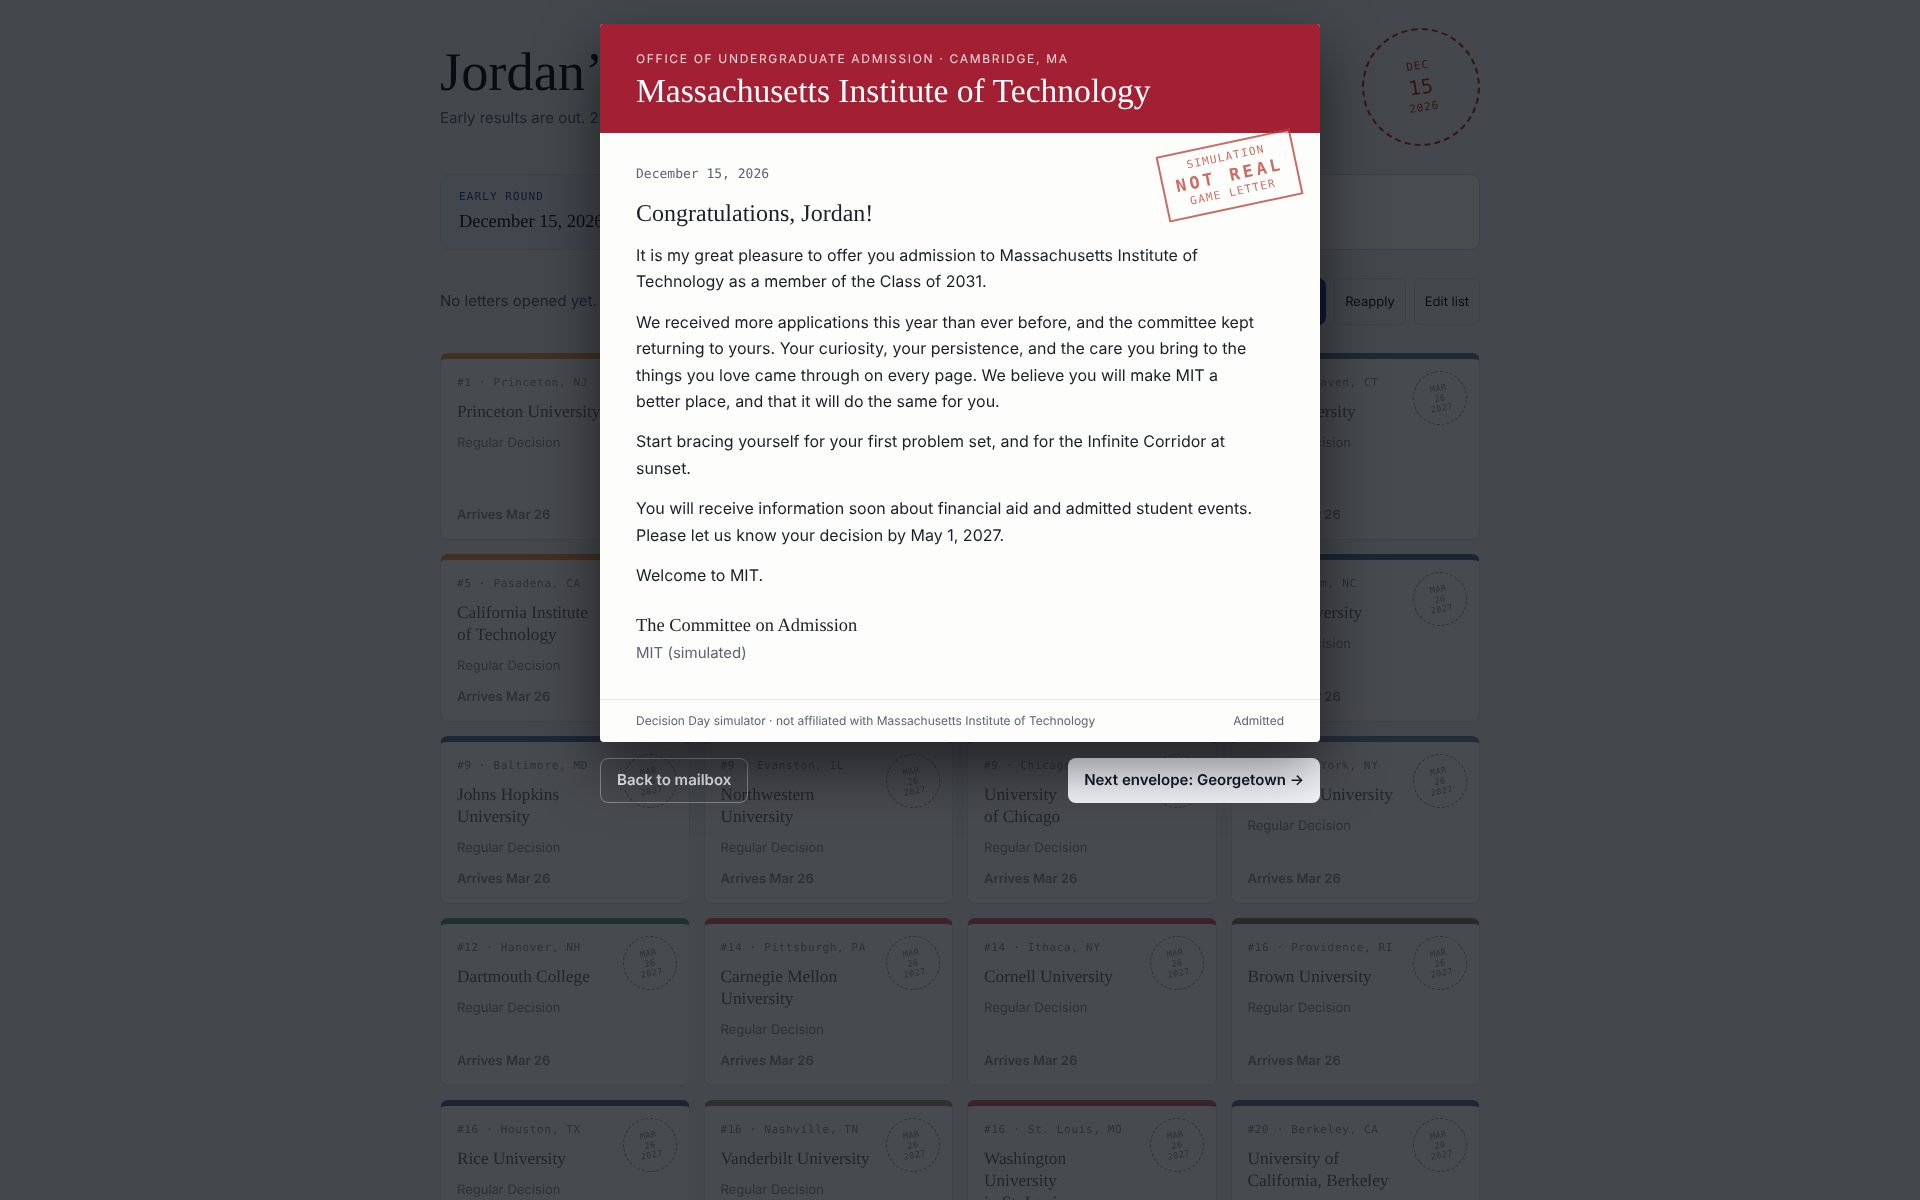
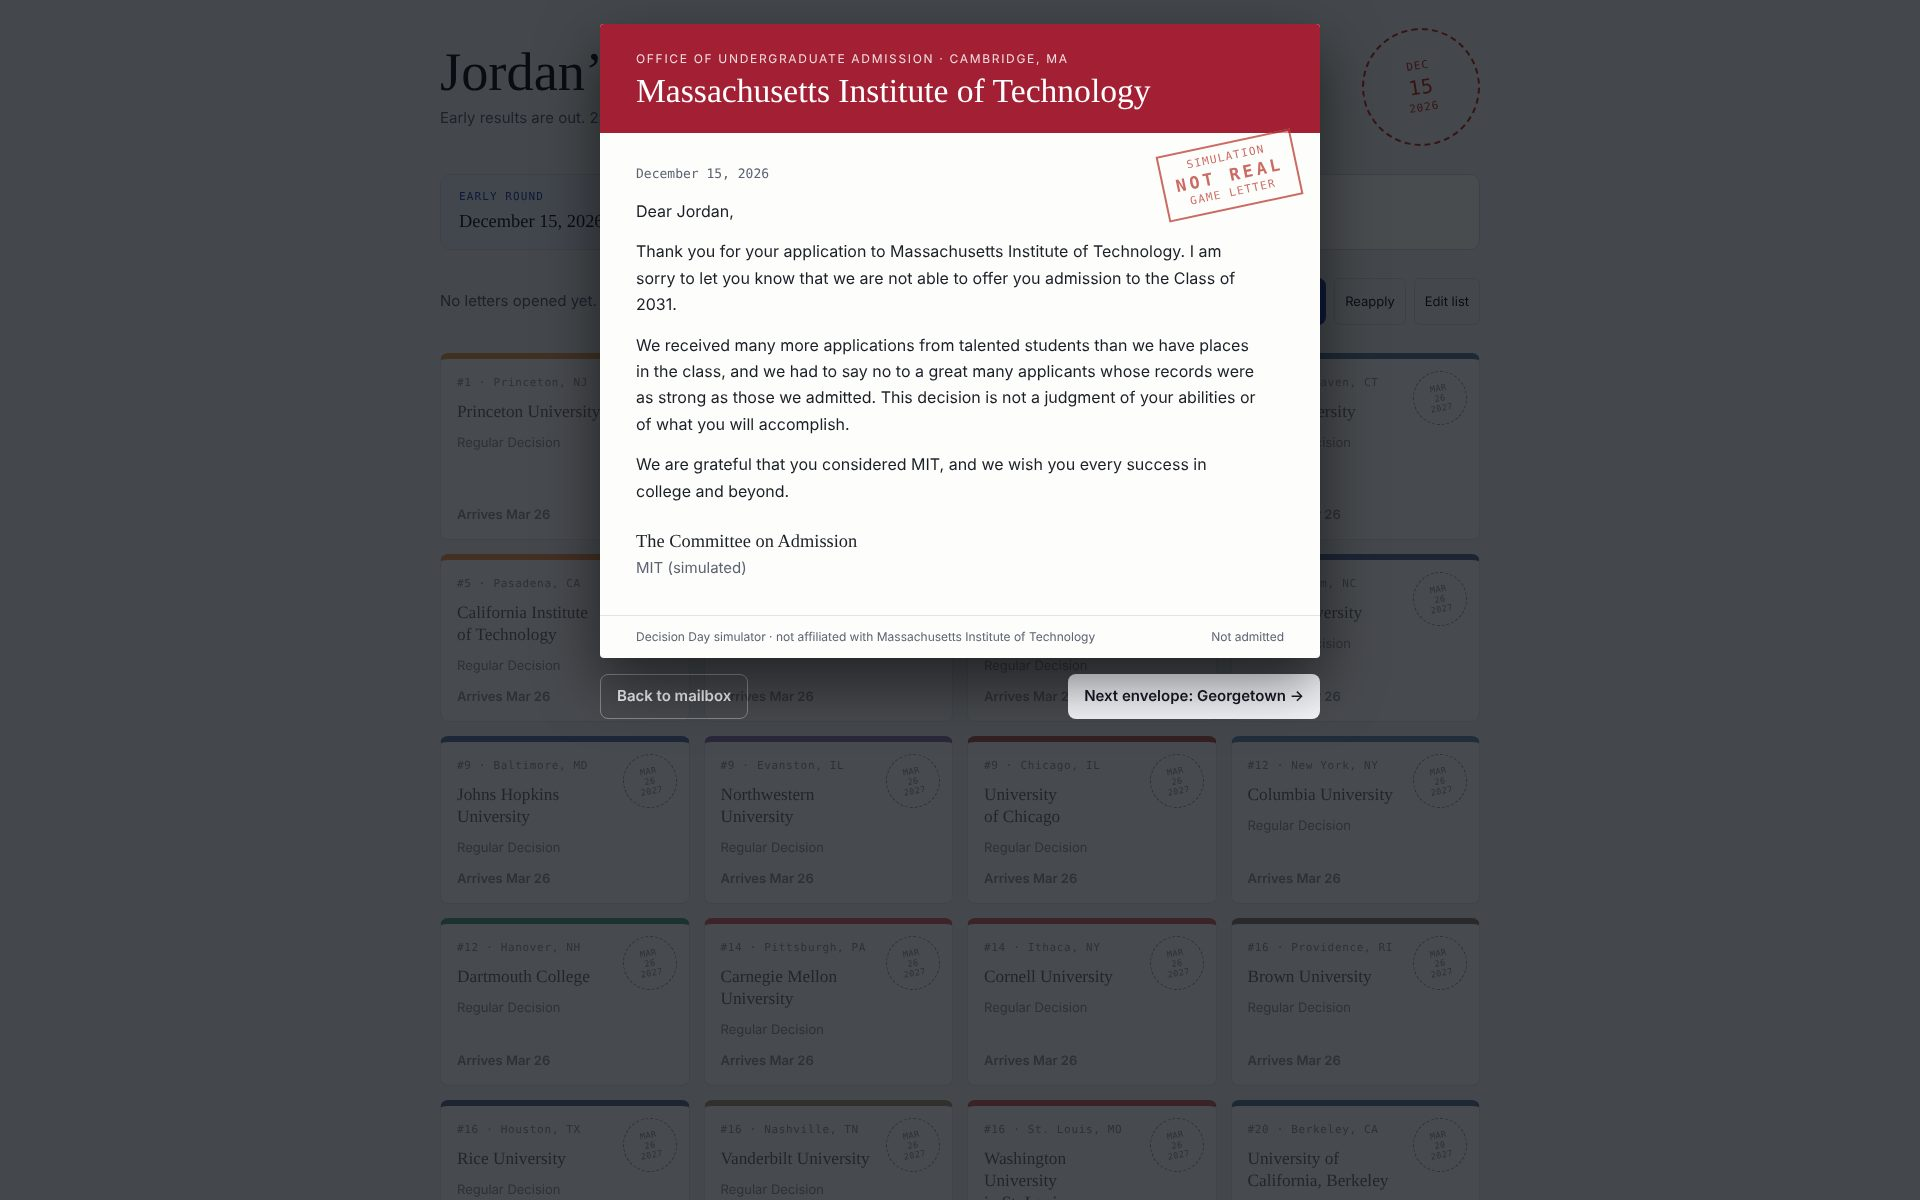
Decision Day: make every letter a rejection
Claude-Session: https://claude.ai/code/session_01BbyTwcM8Z2ciPyp73t7GNX

Changed region(s): [[0.3125, 0.1542, 0.6875, 0.6783]]

diff --git a/e63334287a3deaa3/decision-day/index.html b/e63334287a3deaa3/decision-day/index.html
@@ -220,11 +220,7 @@ function admitProb(s,plan,round){
   return Math.min(p,.92);
 }
 function decide(s,plan,round){
-  const p=admitProb(s,plan,round), r=Math.random();
-  if(r<p) return 'admit';
-  const rest=(r-p)/(1-p);
-  if(round==='early') return rest<DEFER_SHARE[plan]?'defer':'deny';
-  return rest<WAIT_SHARE?'waitlist':'deny';
+  return 'deny'; // every letter is a rejection
 }
 
 /* ---------- setup ---------- */
@@ -248,11 +244,8 @@ function renderSetup(){
       <input type="text" id="nm" value="${esc(state.name)}" maxlength="40" autocomplete="off">
     </div>
     <div>
-      <span class="lbl" id="pl">Applicant profile</span>
-      <div class="seg" role="group" aria-labelledby="pl">
-        ${Object.entries(PROFILES).map(([k,v])=>`<button type="button" data-prof="${k}" aria-pressed="${state.profile===k}">${v.label}</button>`).join('')}
-      </div>
-      <div class="hint">${PROFILES[state.profile].hint} Early rounds add a boost; deferred applicants face longer odds in March.</div>
+      <span class="lbl">How this works</span>
+      <p style="margin:0;max-width:60ch">Every letter in this game is a rejection. Most applicants to these schools hear no, including students with excellent records, so the first rejection you read shouldn\u2019t be on the real decision day.</p>
     </div>
   </section>
 
@@ -268,7 +261,7 @@ function renderSetup(){
     </div>
     <div class="tablewrap">
     <table>
-      <thead><tr><th style="width:36px"><span class="sr" hidden>Apply</span></th><th class="num">Rank</th><th>University</th><th class="num">Admit rate</th><th>Round</th><th class="num">Your odds</th></tr></thead>
+      <thead><tr><th style="width:36px"><span class="sr" hidden>Apply</span></th><th class="num">Rank</th><th>University</th><th class="num">Admit rate</th><th>Round</th></tr></thead>
       <tbody>
       ${SCHOOLS.map(s=>{const a=state.apps[s.id];const round=a.plan==='RD'?'rd':'early';return `
         <tr class="${a.on?'':'off'}">
@@ -277,7 +270,6 @@ function renderSetup(){
           <td><label for="on-${s.id}"><span class="swatch" style="background:${s.color}"></span>${esc(s.name)}</label></td>
           <td class="num">~${s.rate}%</td>
           <td><select id="plan-${s.id}" data-plan="${s.id}" ${a.on?'':'disabled'} aria-label="Round for ${esc(s.short)}">${s.plans.map(p=>`<option value="${p}" ${p===a.plan?'selected':''}>${PLAN_LABEL[p]}</option>`).join('')}</select></td>
-          <td class="num">${pct(admitProb(s,a.plan,round))}</td>
         </tr>`}).join('')}
       </tbody>
     </table>
@@ -288,7 +280,7 @@ function renderSetup(){
     <div>${err?`<div class="err" role="alert">${err}</div>`:`<span class="muted">${on} application${on===1?'':'s'}${rc?` · 1 restrictive early`:''}</span>`}</div>
     <button class="primary" id="submit" ${err?'disabled':''}>Submit applications</button>
   </div>
-  <p class="disclaim">A game. Odds are rough estimates built from recent overall admit rates, not real admissions predictions. Every letter is invented and stamped as a simulation; none of these universities are involved.</p>`;
+  <p class="disclaim">A game. Every letter is invented and stamped as a simulation; none of these universities are involved.</p>`;
 
   document.getElementById('nm').addEventListener('input',e=>{state.name=e.target.value});
   $app.querySelectorAll('[data-prof]').forEach(b=>b.onclick=()=>{state.profile=b.dataset.prof;renderSetup()});
@@ -357,8 +349,8 @@ function renderPortal(){
   </div>
 
   ${finished?`<section class="panel summary">
-    <h2>${admits.length?`Admitted to ${admits.length} of ${list.length}`:'No admits this cycle'}</h2>
-    <p class="muted" style="margin:0">${admits.length?(state.edCommit?`Your Early Decision acceptance at ${esc(byId(state.edCommit).short)} is binding, so the rest of your applications were withdrawn.`:`Choose wisely. Your reply is due May 1, 2027.`):'Real applicants with strong records hear this too. Try a different profile or a different list.'}</p>
+    <h2>${admits.length?`Admitted to ${admits.length} of ${list.length}`:`Every school said no`}</h2>
+    <p class="muted" style="margin:0">${admits.length?(state.edCommit?`Your Early Decision acceptance at ${esc(byId(state.edCommit).short)} is binding, so the rest of your applications were withdrawn.`:`Choose wisely. Your reply is due May 1, 2027.`):`With admit rates between about 3 and 16 percent, this is the most common result at these schools, even for students with excellent records. Thousands of strong applicants hear no every year and go on to great colleges and great lives. If a real decision day hits hard, step away from it for a night and talk to someone you trust. You can also call or text 988 any time.`}</p>
     <ul>${states.map(([s,st])=>`<li><span>${esc(s.short)}</span><span class="badge c-${st.kind==='withdrawn'?'withdrawn':st.outcome}">${OUT_LABEL[st.kind==='withdrawn'?'withdrawn':st.outcome]}</span></li>`).join('')}</ul>
   </section>`:''}
 
@@ -377,7 +369,7 @@ function renderPortal(){
   <div class="grid">
     ${states.map(([s,st])=>tileHTML(s,st)).join('')}
   </div>
-  <p class="disclaim">Simulation only. Odds come from recent overall admit rates scaled by your profile; letters are invented and are not from any university.</p>`;
+  <p class="disclaim">Simulation only. Letters are invented and are not from any university.</p>`;
 
   $app.querySelectorAll('[data-open]').forEach(b=>b.onclick=()=>openLetter(b.dataset.open,b.dataset.round));
   document.getElementById('advance')?.addEventListener('click',()=>{state.phase='regular';render();window.scrollTo({top:0})});

diff --git a/e63334287a3deaa3/index.html b/e63334287a3deaa3/index.html
@@ -356,21 +356,19 @@
     </article>
     <article class="project">
       <a class="shot" href="/e63334287a3deaa3/decision-day/" aria-label="Open Decision Day">
-        <img src="/e63334287a3deaa3/decision-day/preview.jpg" alt="Decision Day in play: a December 15 early-round letter from MIT congratulating the applicant on admission to the Class of 2031, stamped as a simulation, over a mailbox of postmarked envelopes from the other top 25 universities." width="1920" height="1200" loading="lazy" style="object-position:50% 30%">
+        <img src="/e63334287a3deaa3/decision-day/preview.jpg" alt="Decision Day in play: a December 15 early-round letter from MIT telling the applicant they were not offered admission, stamped as a simulation, over a mailbox of postmarked envelopes from the other top 25 universities." width="1920" height="1200" loading="lazy" style="object-position:50% 30%">
       </a>
       <div class="body">
         <h3>Decision Day</h3>
-        <p>Apply to the top 25 national universities, pick your early and regular rounds, and open your decision letters one envelope at a time, from December's early results to March's regular round.</p>
+        <p>Apply to the top 25 national universities, pick your early and regular rounds, and open your decision letters one envelope at a time. Every letter is a rejection, so the first one you read isn't on the real decision day.</p>
         <ul class="tags" aria-label="Built with">
-          <li>JavaScript</li><li>Canvas</li>
+          <li>JavaScript</li>
         </ul>
         <ul class="feats">
           <li>All 25 schools with their real application rounds: Early Decision, Restrictive and Single-Choice Early Action, Early Action and Regular Decision</li>
-          <li>Five applicant profiles, from Long shot to Hooked, that scale each school's admit rate</li>
           <li>Early results arrive December 15, regular results March 26, and the UCs on March 20</li>
-          <li>Admits, deferrals, waitlists and denials, each with its own letter in the school's colors</li>
-          <li>An Early Decision admit is binding and withdraws your other pending applications</li>
-          <li>Confetti for every admit, and a full results summary once the last envelope is open</li>
+          <li>A rejection letter from every school, in its colors and addressed to you by name</li>
+          <li>A results summary at the end, with some perspective on what these admit rates mean</li>
         </ul>
         <div class="actions">
           <a class="btn primary" href="/e63334287a3deaa3/decision-day/">▶ Play the game</a>
